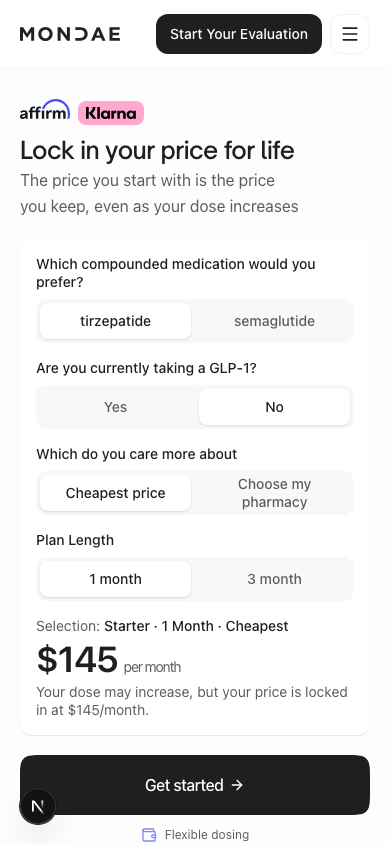
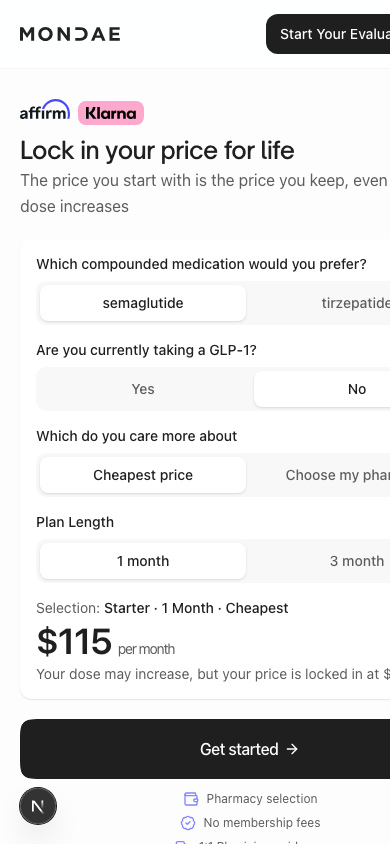
Sync Mondae quad LP handoff: Pharmacy selection + hero footnotes

diff --git a/mondae/20260718_mondae_webflow-lp-handoff.html b/mondae/20260718_mondae_webflow-lp-handoff.html
@@ -123,6 +123,15 @@
   <h2 id="section-a">A. Dual GLP-1 quad selector</h2>
   <p><strong>Lock in your price for life</strong> · CTA: <strong>Get started</strong></p>
   <p>Hero → How it works → Price lock → FAQ → sticky CTAs. Desktop hero: <strong>vials left</strong> · selector right. Mobile: selector first, vials below.</p>
+  <div class="rules">
+    <div class="rule"><strong>Subhead</strong><span>Full column width (don’t balance/compress the line break under the H1)</span></div>
+    <div class="rule"><strong>Trust bullets</strong><span>Under Get started: <strong>Pharmacy selection</strong> · No membership fees · 1:1 Physician guidance</span></div>
+    <div class="rule"><strong>Hero footnotes</strong><span>Directly under those bullets (same copy as simplified-alt). Not the footer legal block.</span></div>
+  </div>
+  <ul style="font-size:0.9rem;color:var(--color-text-light);margin:8px 0 0;padding-left:1.25rem">
+    <li>*Compounded medications are not approved by the FDA. The FDA does not review compounded medications for safety or quality. These medications are prepared for individual patients based on a provider's medical judgment. Prescription required.</li>
+    <li>**Dosage prescribed is at the discretion of your licensed prescriber.</li>
+  </ul>
 
   <h3 id="selector-behavior">Selector behavior</h3>
   <p class="note" style="margin:0 0 12px;font-size:0.9rem;color:var(--color-text-light)">Updates price summary only — does not change hero image or navigate. Default: <strong>sema</strong> · No · Cheapest · 1 mo.</p>
@@ -165,7 +174,7 @@
   <div class="shot-grid">
     <figure class="shot">
       <a href="assets/screenshots/quad-desktop-hero.png" target="_blank" rel="noopener"><img src="assets/screenshots/quad-desktop-hero.png" alt="Quad LP desktop hero" loading="lazy"></a>
-      <figcaption>Desktop hero — vials left, selector right</figcaption>
+      <figcaption>Desktop hero — vials left, Pharmacy selection bullets + FDA footnotes</figcaption>
     </figure>
     <figure class="shot">
       <a href="assets/screenshots/quad-desktop-selector-default.png" target="_blank" rel="noopener"><img src="assets/screenshots/quad-desktop-selector-default.png" alt="Selector default state" loading="lazy"></a>